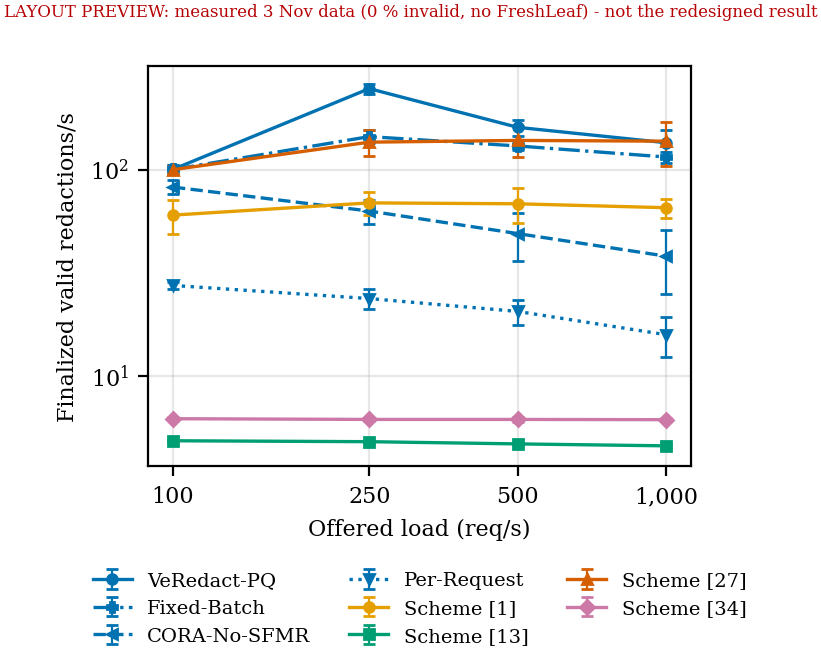
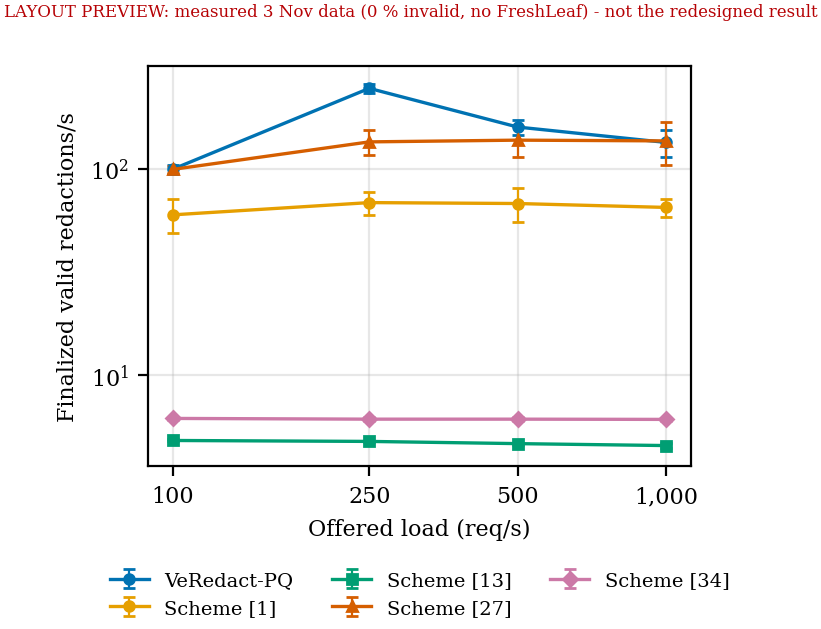
#5 step 2: Exp. 1 graph shows VeRedact-PQ and the baselines only; variants go to a table

diff --git a/suggest_change/exp1/VeRedact-optimize2.tex b/suggest_change/exp1/VeRedact-optimize2.tex
@@ -3250,7 +3250,9 @@ but each authorized redaction performs an independent Merkle update
 and PQCH adaptation.
 \end{enumerate}
 The full \textbf{VeRedact-PQ} configuration combines CORA selection
-with SFMR shared-frontier execution.
+with SFMR shared-frontier execution. \textcolor{red}{Fig.~\ref{fig:exp1_redaction}
+compares the full configuration with the baselines; the throughput of the
+internal variants at each arrival rate is reported in a table.}
 
 To examine locality, the Zipf skew is varied as
 $s\in\{0,0.4,0.8,1.2\}$ at a fixed arrival rate. We record the number

diff --git a/Other/analysis/exp1_layout_preview.py b/Other/analysis/exp1_layout_preview.py
@@ -17,7 +17,7 @@ from veredact_bench.reporting import style
 
 RES = ROOT / "Benchmark/results/exp01_redaction_throughput"
 OUT = ROOT / "suggest_change/exp1/exp1_layout_preview.png"
-SYSTEMS = ["veredact", "veredact-fixed-batch", "veredact-cora-no-sfmr", "veredact-per-request", "S1", "S13", "S27", "S34"]
+SYSTEMS = ["veredact", "S1", "S13", "S27", "S34"]  # ablation variants go to a table in the text, not the graph
 MAX_RATE = 1000  # redesign range: 25-1,000 req/s (3 Nov has 100, 250, 500, 1,000)
 
 

diff --git a/suggest_change/exp1/README.md b/suggest_change/exp1/README.md
@@ -8,7 +8,7 @@ it, our own stale-proof churn still dominates above ~500 req/s.
 
 | Item | Today | Proposed |
 |---|---|---|
-| Graph | 3 panels: (a) throughput, (b) p95, (c) adaptations vs skew | **one panel: finalized *valid* redactions/s vs offered load**, one line per system |
+| Graph | 3 panels: (a) throughput, (b) p95, (c) adaptations vs skew | **one panel: finalized *valid* redactions/s vs offered load**, VeRedact-PQ + Schemes [1], [13], [27], [34] (ablation variants in a table in the text) |
 | Workload | 100 % valid (`fault_fraction` = 0) | **20 % invalid: 10 % stale + 10 % absent**, 80 % valid; same trace for every scheme |
 | Rates | 100–5,000 req/s (everything above ~500 saturated) | **25–1,000 req/s**, dense around saturation |
 | Throughput | finalized redactions/s | finalized **valid** redactions/s; an executed invalid request counts as *accepted invalid*, not throughput |
